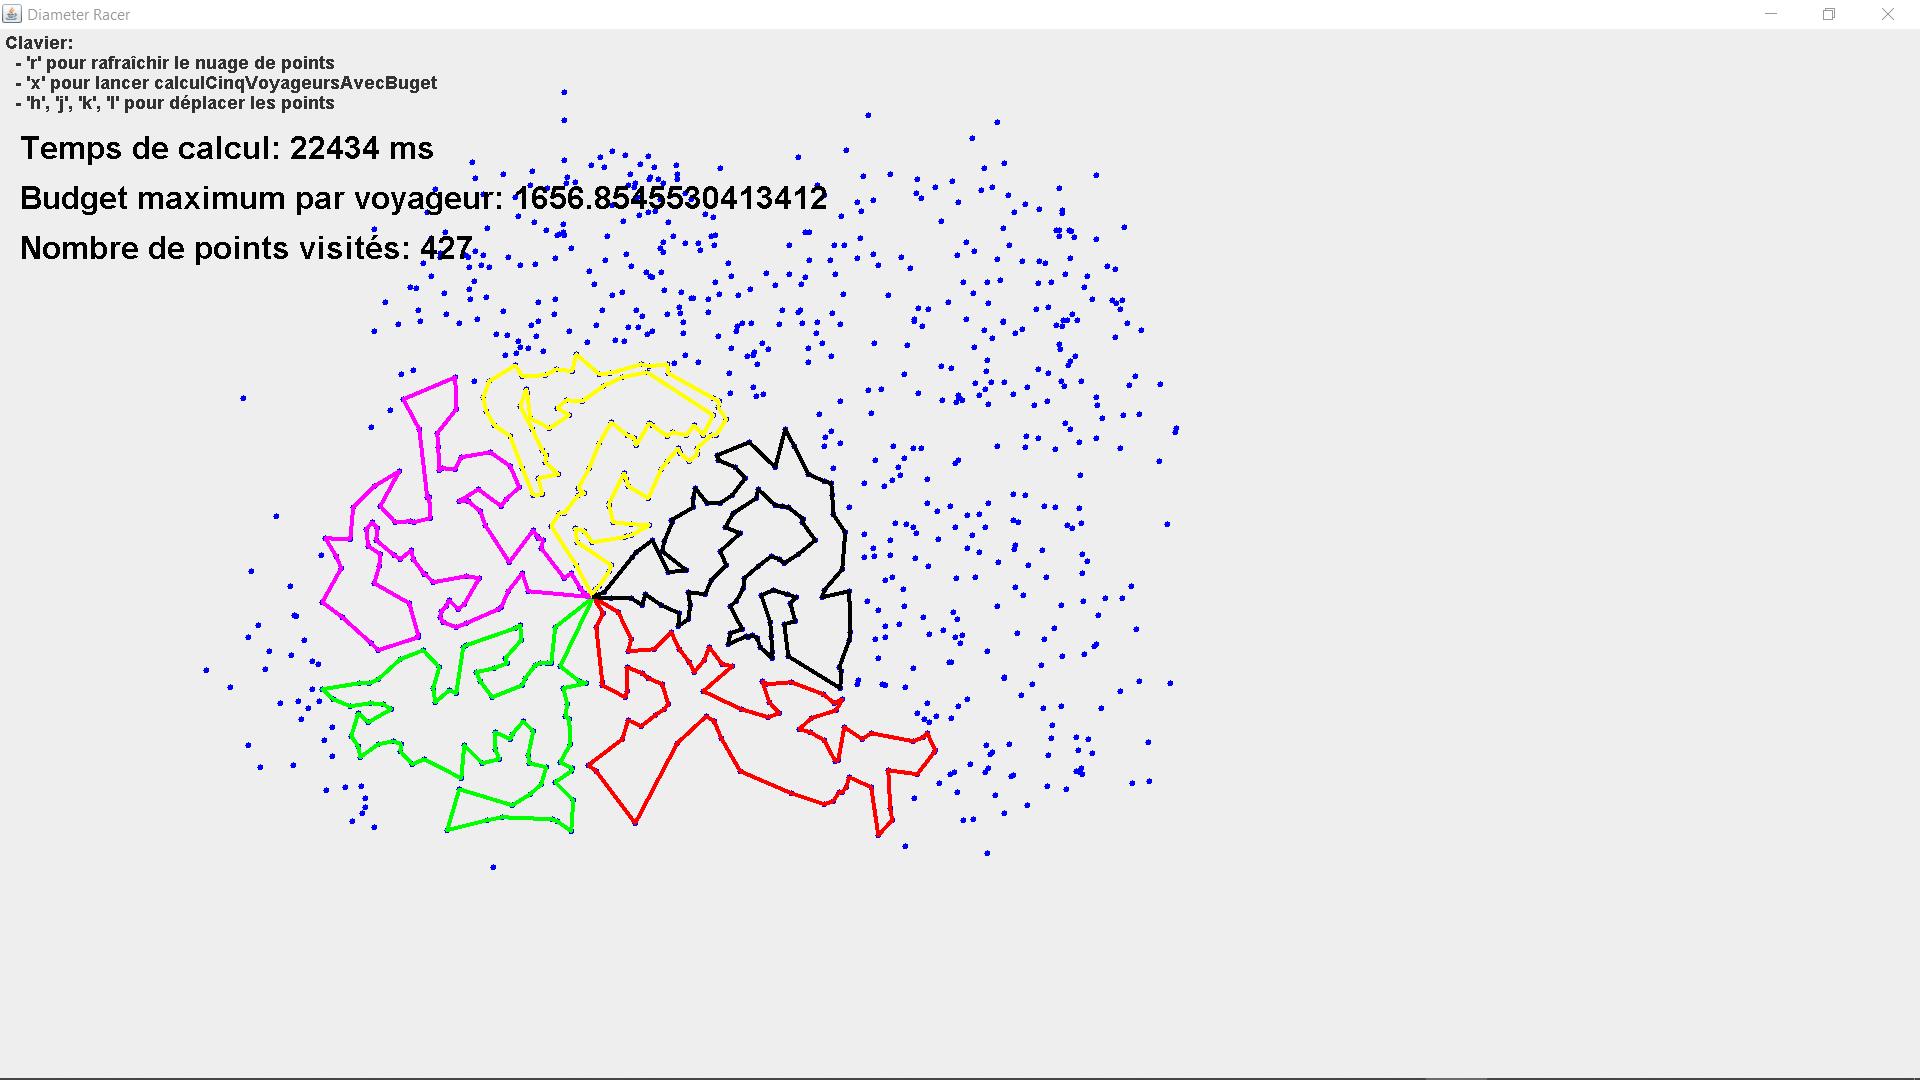
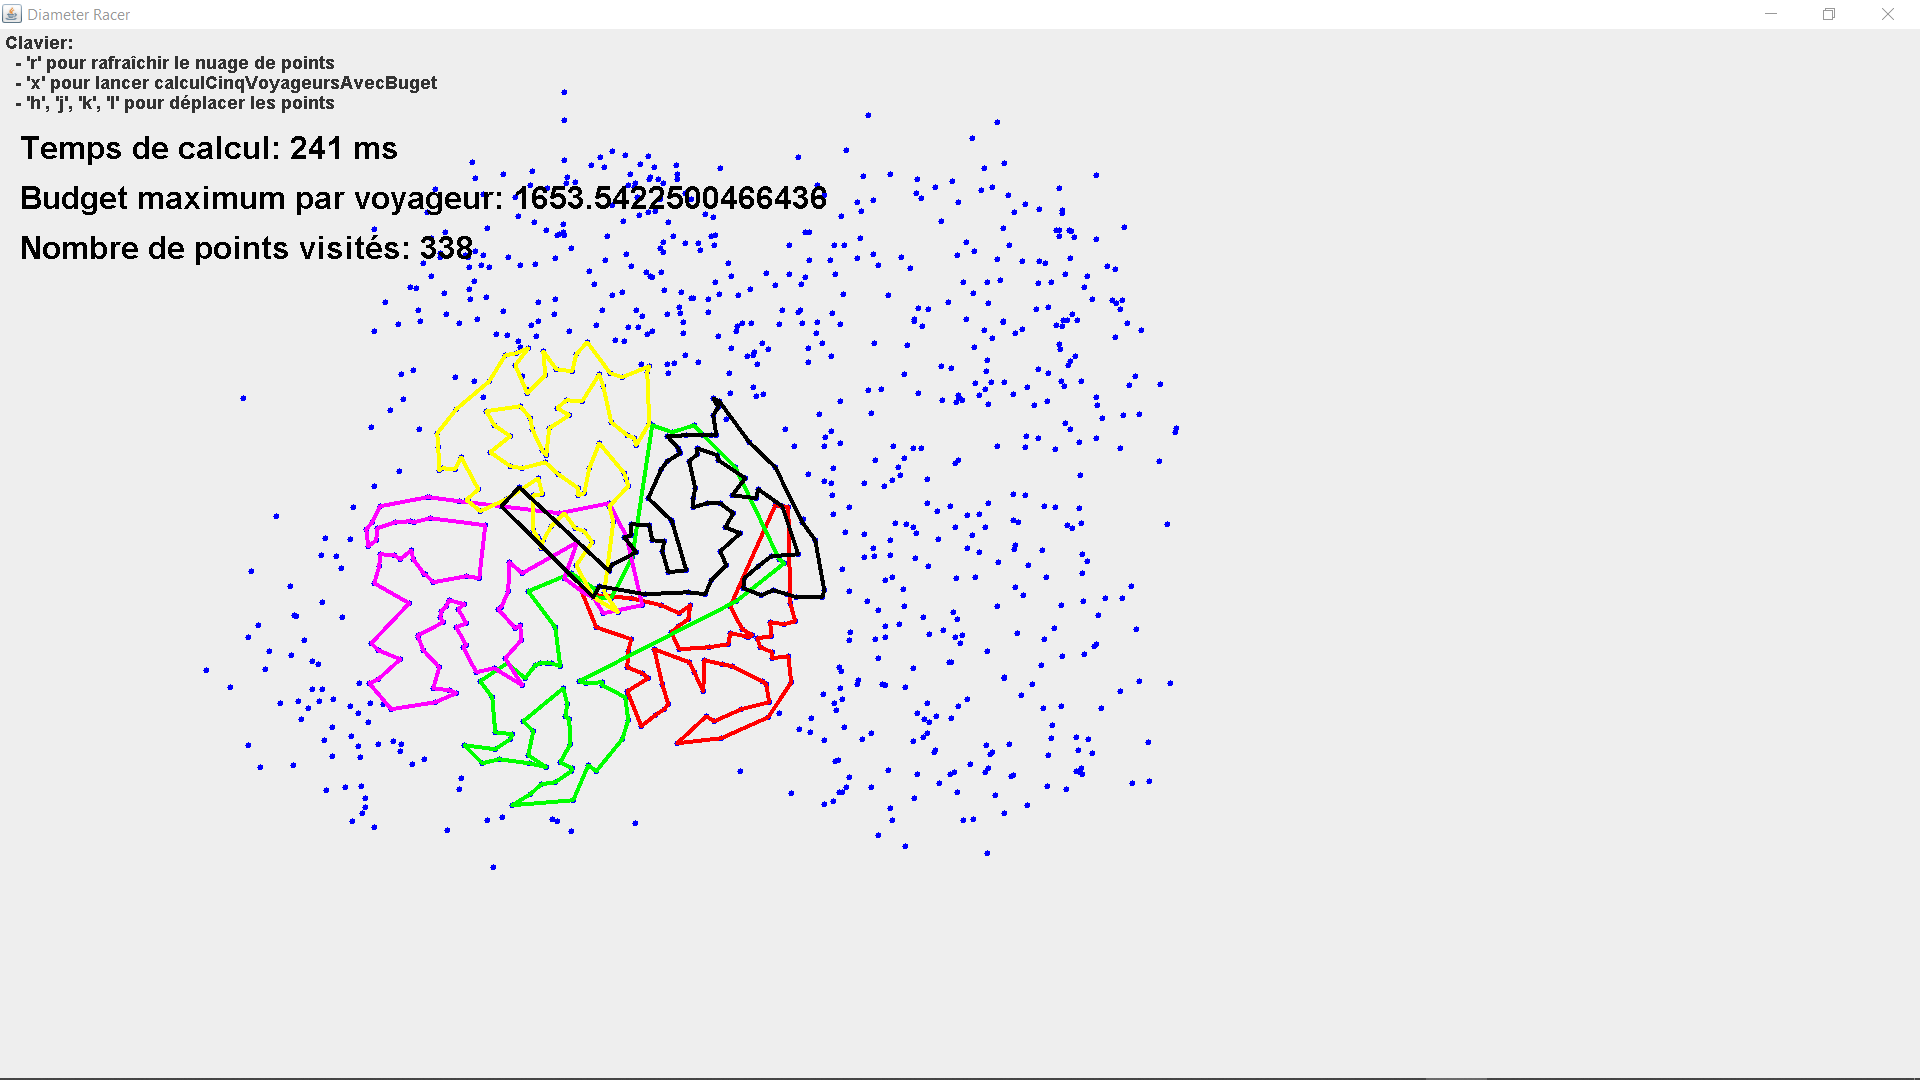
a try at density based approach

diff --git a/src/algorithms/DefaultTeam.java b/src/algorithms/DefaultTeam.java
@@ -174,76 +174,100 @@ public class DefaultTeam {
 		  
 		double budget = 1664.0;
 
-		TreeMap<Integer, ArrayList<ArrayList<Point>>> solutions = new TreeMap<Integer, ArrayList<ArrayList<Point>>>();
+		ArrayList<Point> alice = new ArrayList<Point>(); alice.add(maison);
+		ArrayList<Point> bob = new ArrayList<Point>(); bob.add(maison);
+		ArrayList<Point> cindy = new ArrayList<Point>(); cindy.add(maison);
+		ArrayList<Point> dave = new ArrayList<Point>(); dave.add(maison);
+		ArrayList<Point> eddy = new ArrayList<Point>(); eddy.add(maison);
+		
+		ArrayList<Point> unvisited = (ArrayList<Point>) points.clone();
+		unvisited.remove(maison);
+		
+		
+		// // Removing the points too far away
+		// for (Point p : unvisited) {
+		// 	if (p.distance(maison) >= budget/2) {
+		// 		unvisited.remove(p);
+		// 	}
+		// }
 
-		for (int alpha = 0; alpha < 72; alpha++) {
-    
-			ArrayList<Point> alice = new ArrayList<Point>(); alice.add(maison);
-			ArrayList<Point> bob = new ArrayList<Point>(); bob.add(maison);
-			ArrayList<Point> cindy = new ArrayList<Point>(); cindy.add(maison);
-			ArrayList<Point> dave = new ArrayList<Point>(); dave.add(maison);
-			ArrayList<Point> eddy = new ArrayList<Point>(); eddy.add(maison);
-			
-			ArrayList<Point> unvisited = (ArrayList<Point>) points.clone();
-			unvisited.remove(maison);
-			
-			
-			// // Removing the points too far away
-			// for (Point p : unvisited) {
-			// 	if (p.distance(maison) >= budget/2) {
-			// 		unvisited.remove(p);
-			// 	}
-			// }
-			
+		ArrayList<Integer> alphas = new ArrayList<>(Arrays.asList(0,72,144,216,288));
 
-			// Divide the space in 5 parts
-			ArrayList<Integer> alphas = new ArrayList<Integer>();
+		ArrayList<TreeMap<Double,Point>> pointScoresPerQuadrant = new ArrayList<TreeMap<Double,Point>>();
 
-			for (int i = 0; i < 5; i++) {
-				alphas.add((i*72)+alpha);
-			}
-
-			Map<Integer, ArrayList<Point>> div_points = new HashMap<>();
-			
-			for (Point p : unvisited) {
-				int quadrant = compute_quadrant(p, maison, alphas);
-				ArrayList<Point> res = div_points.putIfAbsent(quadrant, new ArrayList<Point>(Arrays.asList(p)));
-				if (res != null) {
-					res.add(p);
-					div_points.put(quadrant, res);
-				}
-			}
-
-			
-			// For each person find the total traversed path
-			alice = calculTSP(div_points.get(0), maison);
-			bob = calculTSP(div_points.get(1), maison);
-			cindy = calculTSP(div_points.get(2), maison);
-			dave = calculTSP(div_points.get(3), maison);
-			eddy = calculTSP(div_points.get(4), maison);
-			
-			
-			// // For each person, reduce it under the budget
-			alice = reduce_budget(alice, maison, budget);
-			bob = reduce_budget(bob, maison, budget);
-			cindy = reduce_budget(cindy, maison, budget);
-			dave = reduce_budget(dave, maison, budget);
-			eddy = reduce_budget(eddy, maison, budget);
-			
-			ArrayList<ArrayList<Point>> result = new ArrayList<ArrayList<Point>>();
-			result.add(alice);
-			result.add(bob);
-			result.add(cindy);
-			result.add(dave);
-			result.add(eddy);
-
-			int resultSize = 0;
-
-			for (int i = 0; i < result.size(); i++) resultSize += result.get(i).size();
-
-			solutions.put(resultSize, result);
+		for (int i = 0; i < 5; i++) {
+			pointScoresPerQuadrant.add(i, new TreeMap<>());
 		}
+
+		double weight1 = 0.9;
+		double weight2 = 1-weight1;
+		
+		for (Point p : unvisited) {
+			int quadrant = compute_quadrant(p, maison, alphas);
+			
+			int i=0;
+			for (TreeMap<Double,Point> tm: pointScoresPerQuadrant) {
+				tm.put((weight1/p.distance(maison) + weight2*(quadrant==i ? 1/p.distance(maison) : 0)), p);
+				i++;
+			}
+		}
+
+		HashMap<Point,Integer> deletedPoints = new HashMap<Point,Integer>();
+
+		boolean flag = false;
+
+		HashMap<Integer,ArrayList<Point>> div_points = new HashMap<Integer,ArrayList<Point>>();
+
+		while (!flag) {
+			for (int i = 0; (i < 5) && (!flag); i++) {
+				double highestScore = pointScoresPerQuadrant.get(i).lastKey();
+				Point mostEligiblePoint = pointScoresPerQuadrant.get(i).get(highestScore);
+				while (deletedPoints.containsKey(mostEligiblePoint)) {
+					pointScoresPerQuadrant.get(i).remove(highestScore);
+					highestScore = pointScoresPerQuadrant.get(i).lastKey();
+					mostEligiblePoint = pointScoresPerQuadrant.get(i).get(highestScore);
+				}
+				deletedPoints.put(mostEligiblePoint,1);
+				pointScoresPerQuadrant.get(i).remove(highestScore);
+				if (pointScoresPerQuadrant.get(i).isEmpty()) flag = true;
+
+				if (!div_points.containsKey(i)) {
+					div_points.put(i, new ArrayList<>());
+				}
+				div_points.get(i).add(mostEligiblePoint);
+			}
+		}
+
+		
+		// For each person find the total traversed path
+		alice = calculTSP(div_points.get(0), maison);
+		bob = calculTSP(div_points.get(1), maison);
+		cindy = calculTSP(div_points.get(2), maison);
+		dave = calculTSP(div_points.get(3), maison);
+		eddy = calculTSP(div_points.get(4), maison);
+		
+		
+		// // // For each person, reduce it under the budget
+		alice = reduce_budget(alice, maison, budget);
+		bob = reduce_budget(bob, maison, budget);
+		cindy = reduce_budget(cindy, maison, budget);
+		dave = reduce_budget(dave, maison, budget);
+		eddy = reduce_budget(eddy, maison, budget);
+		
+		ArrayList<ArrayList<Point>> result = new ArrayList<ArrayList<Point>>();
+		result.add(alice);
+		result.add(bob);
+		result.add(cindy);
+		result.add(dave);
+		result.add(eddy);
+
+		// ArrayList<ArrayList<Point>> result = new ArrayList<ArrayList<Point>>();
+		// result.add(div_points.get(0));
+		// result.add(div_points.get(1));
+		// result.add(div_points.get(2));
+		// result.add(div_points.get(3));
+		// result.add(div_points.get(4));
 	
-		return solutions.get(solutions.lastKey());
+		return result;
   	}
 }
